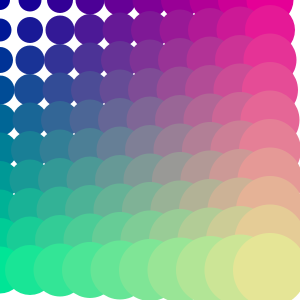
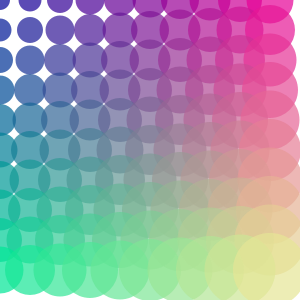
fix: must use color "NRGBA"

diff --git a/examples/image_test.go b/examples/image_test.go
@@ -35,11 +35,13 @@ func TestGGMatrix(t *testing.T) {
 
 	dfn := func(dc *gg.Context, x, y float64, ix, iy uint64) {
 		r := 10.0 + (15.0 * float64(ix) / float64(col)) + (15.0 * float64(iy) / float64(row))
-		c := color.RGBA{uint8(ix * 255 / col), uint8(iy * 255 / row), 150, 255}
-		dc.DrawCircle(x, y, r)
+
+		// Must use NRGBA. RGNA is an 8-bit alpha-premultipled color
+		c := color.NRGBA{uint8(ix * 255 / col), uint8(iy * 255 / row), 150, 180}
 		dc.SetColor(c)
+
+		dc.DrawCircle(x, y, r)
 		dc.Fill()
-		dc.ClearPath()
 	}
 
 	m.Draw(dc, dfn)
@@ -71,11 +73,13 @@ func BenchmarkRenderMatrix100(b *testing.B) {
 
 	dfn := func(dc *gg.Context, x, y float64, ix, iy uint64) {
 		r := 10.0 + (15.0 * float64(ix) / float64(col)) + (15.0 * float64(iy) / float64(row))
-		c := color.RGBA{uint8(ix * 255 / col), uint8(iy * 255 / row), 150, 255}
-		dc.DrawCircle(x, y, r)
+
+		// Must use NRGBA. RGNA is an 8-bit alpha-premultipled color
+		c := color.NRGBA{uint8(ix * 255 / col), uint8(iy * 255 / row), 150, 180}
 		dc.SetColor(c)
+
+		dc.DrawCircle(x, y, r)
 		dc.Fill()
-		dc.ClearPath()
 	}
 
 	for i := 0; i < b.N; i++ {
